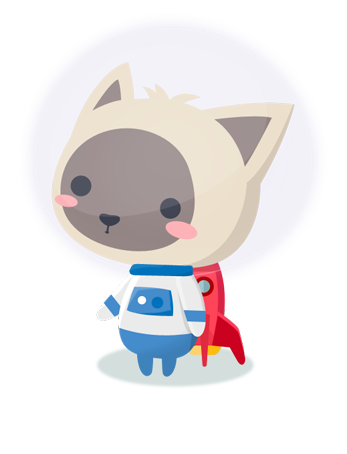
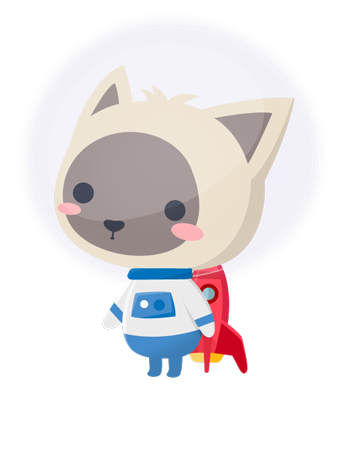
Update graphics

diff --git a/SpaceUp/Nodes/PlayerNode.swift b/SpaceUp/Nodes/PlayerNode.swift
@@ -45,14 +45,18 @@ class PlayerNode: SKSpriteNode {
   
   private lazy var moveUpAnimateAction: SKAction = {
     return SKAction.animateWithTextures([
-      SKTexture(imageNamed: TextureFileName.MuffyFlying)
-    ], timePerFrame: 1/60)
+      SKTexture(imageNamed: TextureFileName.MuffyFlying + "1"),
+      SKTexture(imageNamed: TextureFileName.MuffyFlying + "2")
+    ], timePerFrame: 1/30)
   }()
   
   private lazy var stopMoveUpAnimateAction: SKAction = {
     return SKAction.animateWithTextures([
-      SKTexture(imageNamed: TextureFileName.MuffyStopFlying)
-    ], timePerFrame: 1/60)
+      SKTexture(imageNamed: TextureFileName.MuffyStopFlying + "1"),
+      SKTexture(imageNamed: TextureFileName.MuffyStopFlying + "2"),
+      SKTexture(imageNamed: TextureFileName.MuffyStopFlying + "3"),
+      SKTexture(imageNamed: TextureFileName.MuffyStopFlying + "4")
+    ], timePerFrame: 1/30)
   }()
   
   private lazy var killAnimateAction: SKAction = {

diff --git a/SpaceUp/Scenes/GameScene.swift b/SpaceUp/Scenes/GameScene.swift
@@ -71,6 +71,8 @@ class GameScene: SKScene, SKPhysicsContactDelegate, WorldDelegate, ButtonDelegat
     // HUD
     hud.zPosition = 100
     hud.position = CGPoint(x: screenFrame.midX, y: screenFrame.maxY)
+    gameData.updateScoreForPlayer(world.player)
+    hud.updateWithGameData(gameData)
     addChild(hud)
     
     // Pause button
@@ -135,7 +137,10 @@ class GameScene: SKScene, SKPhysicsContactDelegate, WorldDelegate, ButtonDelegat
     world.followPlayer(crawlIncrement: crawlIncrement)
     
     // Background
-    background.updateOffsetByMotion(filteredMotion)
+    if round(gameData.score) == 0 {
+      background.updateOffsetByMotion(filteredMotion)
+    }
+
     background.move(world.position)
     
     // Comet

diff --git a/SpaceUp/Nodes/SceneBackgroundNode.swift b/SpaceUp/Nodes/SceneBackgroundNode.swift
@@ -49,7 +49,7 @@ class SceneBackgroundNode: SKNode {
   
   // MARK: - Offset
   func updateOffsetByMotion(motion: FilteredMotion) {
-    let maxDiff: CGFloat = 200
+    let maxDiff: CGFloat = 150
     let dx: CGFloat = 0 // maxDiff * CGFloat(motion.acceleration.x)
     let dy: CGFloat = maxDiff * CGFloat(motion.acceleration.y)
     
